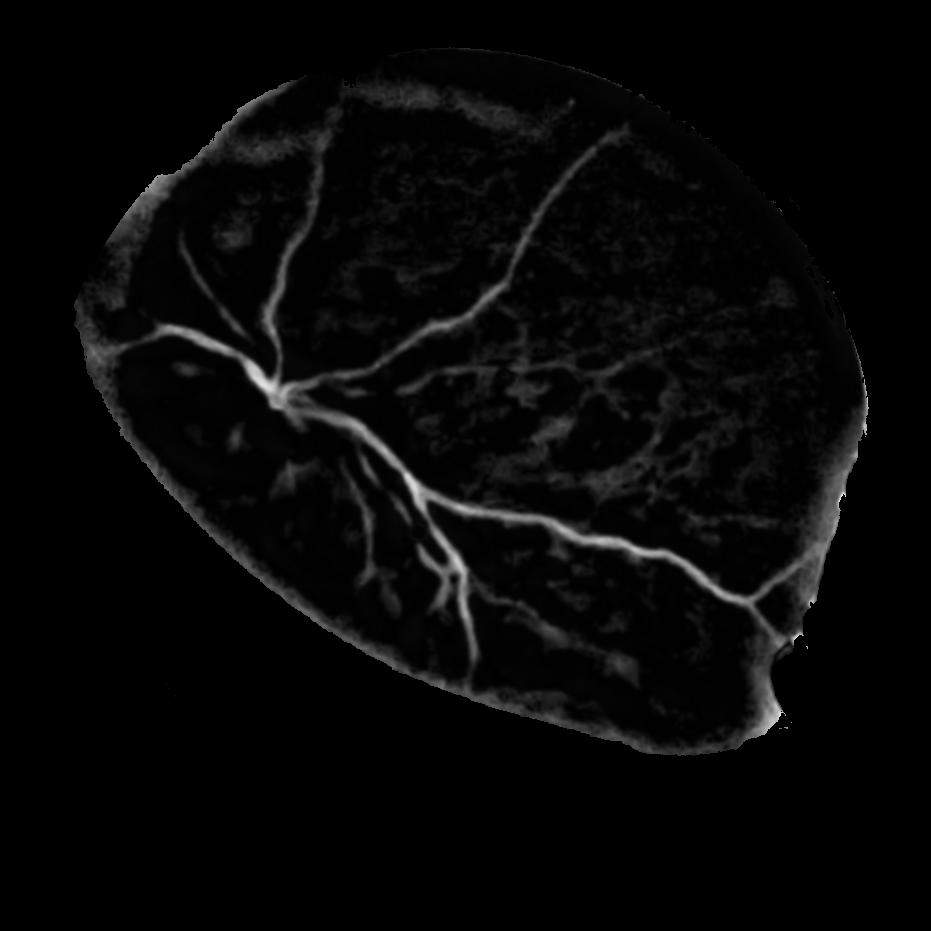
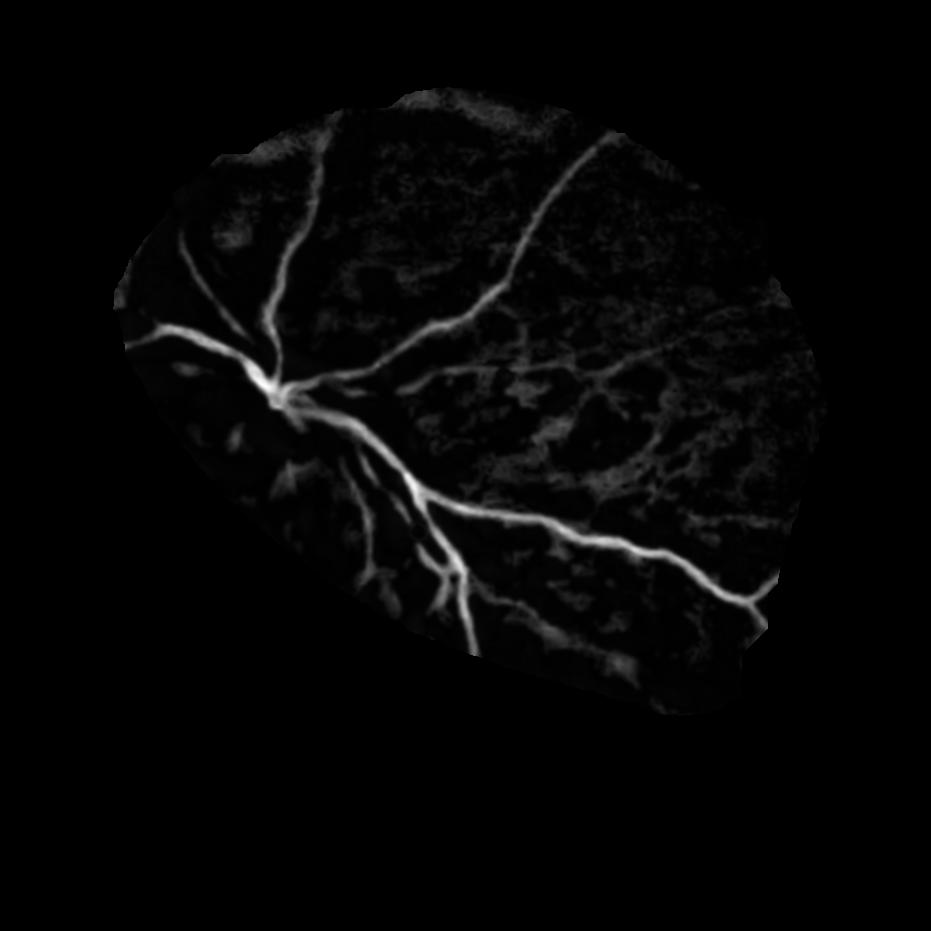
Agregado Mosaico 2 im

diff --git a/Pipeline/Funciones/cargarvideo.m b/Pipeline/Funciones/cargarvideo.m
@@ -21,9 +21,10 @@ function [vidObj,framesNo] = ...
     elseif (nargin == 1)
         [path,name,ext] = fileparts(pathVideo);
         filename = sprintf('%s%s',name,ext);
+        fprintf('======= Carga de Video ======= \n ');
         fprintf('-- Video Seleccionado: \n ');
         fprintf('%s\n',filename);
-        fprintf('Path:\n ');
+        fprintf('-- Path:\n ');
         if (size(path) == 0)
             which(filename);
         else

diff --git a/Pipeline/Binarizacion.m b/Pipeline/Binarizacion.m
@@ -23,13 +23,14 @@ figure(); imshow(imCort)
             clasificadorhsv(imRGB,posCent, radio);
 mascaraTotal = mascaraHSV.*mascaraCirc;
 %%
-se = strel('disk',50);
+se = strel('disk',30);
 masc1 = imclose(mascaraTotal,se);
-se = strel('disk',20);
+se = strel('disk',15);
 masc2 = imerode(masc1,se);
 
 figure();
 imshowpair(masc1, masc2,'Scaling','joint')
+figure(); imshow(masc1.*imRGB);
 
 %%
 imBin = imbinarize(imGrayAdj);

diff --git a/Pipeline/Funciones/cargarimagen.m b/Pipeline/Funciones/cargarimagen.m
@@ -29,7 +29,8 @@ function [imRGB,imGray] = cargarimagen(file)
         % Se da la direccion del archivo a abrir
     else
         [path,name,ext] = fileparts(file);
-        fprintf('Archivo Seleccionado:\n ')
+        fprintf('======= Carga de Imagen ======= \n ');
+        fprintf('-- Imagen Seleccionado:\n ')
         disp(strcat(name,ext));
         fprintf('Path:\n ')
         if(size(path) == 0)

diff --git a/Pipeline/Funciones/clasificadorhsv.m b/Pipeline/Funciones/clasificadorhsv.m
@@ -25,7 +25,7 @@ for iFilas = 1:size(imRGB,1)
         end
     end
 end
-
+mascaraHSV = mascaraHSV.*mascaraCirc;
 puntajeHSV = contHSV/areaCirculo;
 
 end
